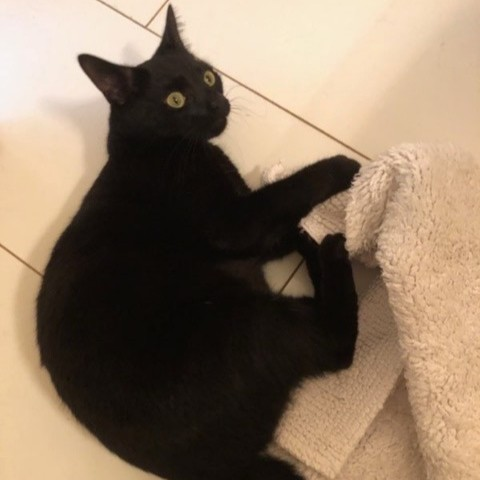
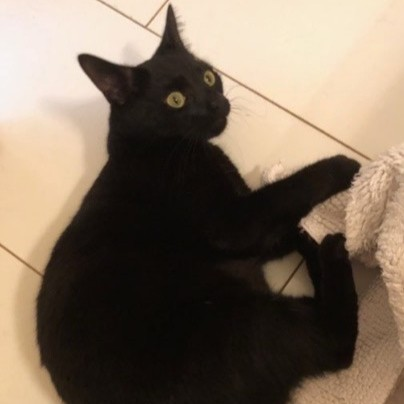
v1

diff --git a/code/TPGen/tpgen.py b/code/TPGen/tpgen.py
@@ -1,10 +1,14 @@
+import time
+
 import numpy
 from PIL import Image
 import matplotlib.pyplot as plt
+from matplotlib.colors import LinearSegmentedColormap
 from matplotlib.collections import LineCollection
 import hilbert
 import triangle
 import serial
+import svg
 
 import edge_detection
 import line_converter
@@ -22,17 +26,20 @@ def handle_image(filename, reduce_quality=False):
     return pixels
 
 def draw(lines, sizex, sizey):
+    # Strange wizardry to show the colours in order of drawing
+    custom_cmap = LinearSegmentedColormap.from_list("progress", ["#ffff00", "#444400", "#ff0000", "#440000", "#ff00ff", "#440044", "#00ffff", "#004444"])
+    colors = [custom_cmap(i / max(1, len(lines) - 1)) for i in range(len(lines))]
+
     # Matplotlib stuff copied from their examples page. Best to ignore for now
     fig, ax = plt.subplots(figsize=(10, 12), dpi=300)
     # set axes limits manually because Collections do not take part in autoscaling
     ax.set_xlim(0, sizex)
     ax.set_ylim(0,  sizey)
-    ax.invert_yaxis()
     ax.set_aspect("equal")  # to make the arcs look circular
     # create a LineCollection with the half-circles
     # its properties can be set per line by passing a sequence (here used for *colors*)
     # or they can be set for all lines by passing a scalar (here used for *linewidths*)
-    line_collection = LineCollection(lines, linewidths=0.3, colors="black")
+    line_collection = LineCollection(lines, linewidths=0.3, colors=colors)
     ax.add_collection(line_collection)
 
     plt.show()
@@ -47,8 +54,8 @@ def interpreter(commands):
     for command_num in range(len(commands)):
         command = commands[command_num].split(" ")
         if command[0] == "MOVE":
-            x = int(command[1])
-            y = int(command[2])
+            x = 15000 - int(command[1])
+            y = 15000 - int(command[2])
             if pen == "down":
                 lines.append([toolhead_pos, (x, y)])
 
@@ -65,8 +72,7 @@ def interpreter(commands):
                 print("INVALID COMMAND: " + command)
         elif command[0] == "SPEED":
             pass
-        else:
-            print("INVALID COMMAND: " + command)
+
 
     return lines
 
@@ -99,40 +105,55 @@ def convert_image(filename, method, simulate=True):
     else:
         print("Unknown method")
         return None
-
-    if simulate:
-        lines = interpreter(p_code)
-        draw(lines, len(pixels[0]) * sf, len(pixels) * sf)
-    else:
-        pass
     return p_code
 
 
 if __name__ == "__main__":
-    p_code = convert_image(f"test-images/6.jpg", "edge_pure", True)
-    #p_code = hilbert.hilbert(7, 15000)
-    #p_code = triangle.triangle(5)
-    p_code.insert(0, "SPEED 3000")
-    p_code.append("PEN UP")
-    p_code.append("MOVE 15000 16000")
-    print(len(p_code))
-    lines = interpreter(p_code)
-    draw(lines, 15000, 15000)
+    # Image conversion - lines, edges then lines or pure edges
+    # p_code = convert_image(f"test-images/4.jpg", "edge_pure", True)
 
-    if 0:
-        exit()
+    # Hilbert curve (level, width)
+    #p_code = hilbert.hilbert(7, 15000)
+    # Sierpinski triangle (level, width)
+    #p_code = triangle.triangle(5, 15000)
+    # Load SVG (filename, width)
+    p_code = svg.draw_svg("test-images/sticker.svg", 15000, 5000, 1500)
+    do_draw = True
+    p_code.insert(0, "SPEED 5000")
+    p_code.append("PEN UP")
+    p_code.append("MOVE 0 0")
+    if do_draw:
+        print(len(p_code))
+        lines = interpreter(p_code)
+        draw(lines, 15000, 15000)
+    p_code.append("MOVE 15000 16000")
+
+    input("Ready to draw. Press any key to continue")
+
     start = 0
     with serial.Serial("COM9", 115200, timeout=None) as ser:
-        print("Sending RST")
+        pen = "up"
+
+        print("Sending RST to device")
         ser.write("RST\n".encode("utf-8"))
+
+
         for instruction in range(start, len(p_code)):
+
+            # Wait until an instruction is requested
             print("Waiting for instruction")
             while True:
                 cmd = ser.readline().decode("utf-8")
                 print(f"Received: {cmd}")
                 if "NEXT" in cmd:
                     break
-                if "STOP" in cmd:
+                elif "STOP" in cmd:
                     exit(1)
-            print(f"Sending instruction: {p_code[instruction]} ({instruction})")
-            ser.write((p_code[instruction] + "\n").encode("utf-8"))
+
+            inst = p_code[instruction]
+            if inst == "PEN UP":
+                pen = "up"
+            elif inst == "PEN DOWN":
+                pen = "down"
+            print(f"Sending instruction: {inst} ({instruction})")
+            ser.write((inst + "\n").encode("utf-8"))

diff --git a/code/TPGen/svg.py b/code/TPGen/svg.py
@@ -1,0 +1,56 @@
+from svgpathtools import parse_path
+import xml.etree.ElementTree as ET
+import re
+from enum import Enum
+import ctypes
+
+class Command(Enum):
+    MOVE = 1
+    PEN_UP = 2
+    PEN_DOWN = 3
+    SPEED = 4
+
+def draw_svg(filename, canvas_width, up_speed, down_speed):
+    xml_unclean = open(filename).read()
+    xml = re.sub("xmlns.*?\".*?\"", "", xml_unclean)
+    root = ET.fromstring(xml)
+    width = root.attrib["width"]
+    height = root.attrib["height"]
+    if width > height:
+        scale = canvas_width / float(width)
+    else:
+        scale = canvas_width / float(height)
+
+    group = root.find("g")
+    path_xml = group.find("path")
+
+    d = path_xml.get("d")
+
+    path = parse_path(d)
+    commands = [f"SPEED {down_speed}"]
+    s_prev = 0
+    e_prev = 0
+    for l in range(len(path)):
+        s = (path[l].start.real * scale, path[l].start.imag * scale)
+        e = (path[l].end.real * scale, path[l].end.imag * scale)
+
+        # It's a different line. The end point of the last jumps to a new startpoint
+        if s != e_prev:
+            commands.append("PEN UP")
+            # Faster speed while moving
+            commands.append(f"SPEED {up_speed}")
+
+            # Move to new startpoint
+            commands.append(f"MOVE {15000 - round(s[0])} {round(s[1])}")
+
+            # Slower when drawing
+            commands.append(f"SPEED {down_speed}")
+            commands.append("PEN DOWN")
+
+        commands.append(f"MOVE {15000 - round(e[0])} {round(e[1])}")
+
+        s_prev = s
+        e_prev = e
+
+    return commands
+

diff --git a/code/TPGen/triangle.py b/code/TPGen/triangle.py
@@ -35,8 +35,8 @@ def sierpinski(points, degree, commands):
                         getMid(points[0], points[2])],
                    degree - 1, commands)
 
-def triangle(depth):
+def triangle(depth, width):
     commands = ["PEN DOWN"]
-    points = [[0, 0],[7400, 14800],[14800, 0]]
+    points = [[0, 0],[width / 2, width],[width, 0]]
     sierpinski(points,depth, commands)
     return commands

diff --git a/code/TPGen/edge_detection.py b/code/TPGen/edge_detection.py
@@ -33,7 +33,8 @@ def pure_edge(img):
         perimeter = cv2.arcLength(c, True)
         if perimeter < 20:
             continue
-        epsilon = 0.02 * perimeter
+
+        epsilon = 1.2
         approx = cv2.approxPolyDP(c, epsilon, True)
 
         if len(approx) <= 2:
